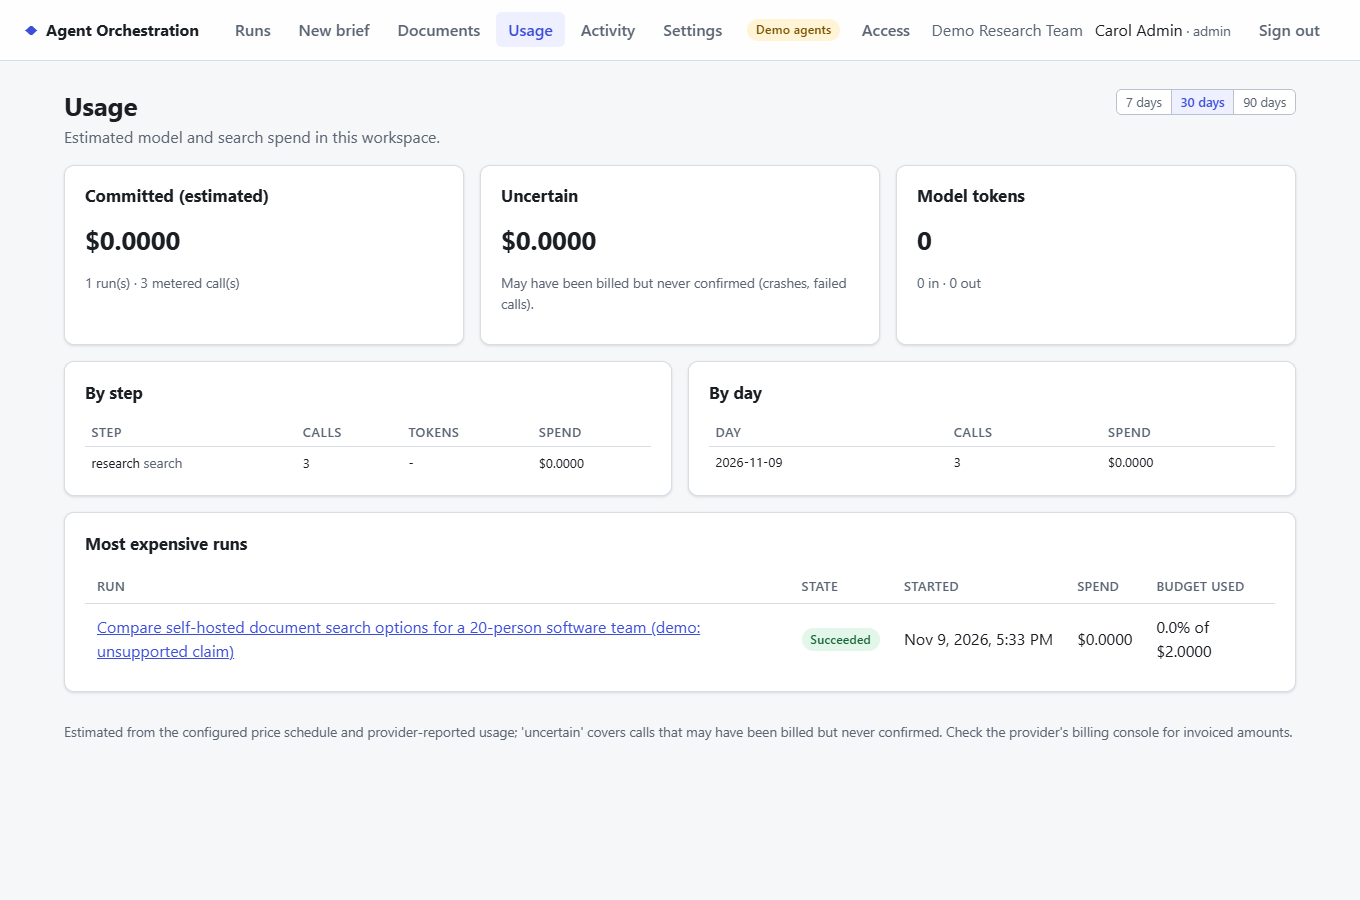
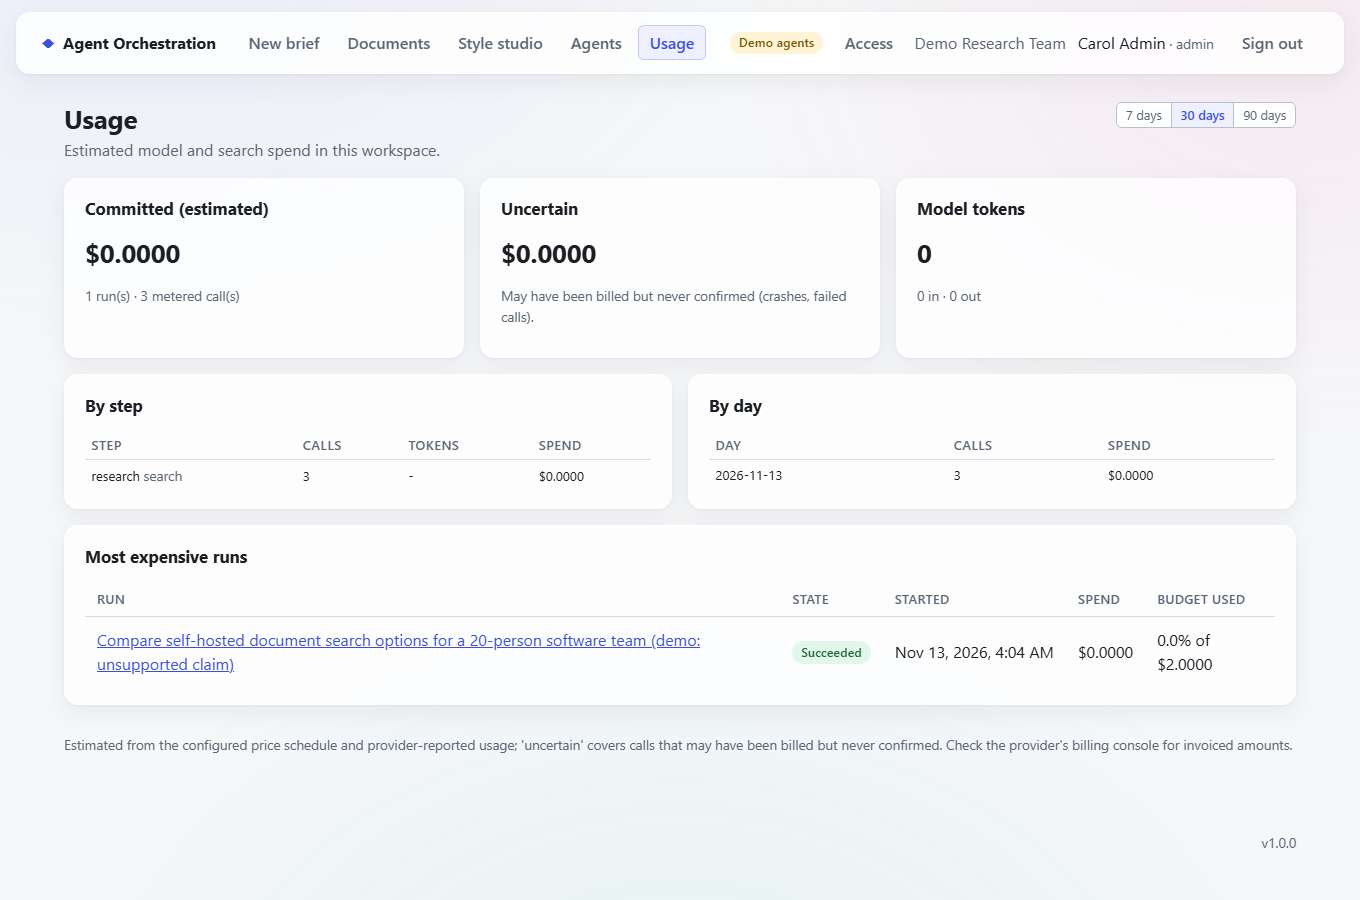
ui: glass theme with measured contrast; docs: live model on Render via environment
Translucent cards and a floating top bar over a faint aurora, gradient primary button. Aurora strength (light 0.07, dark 0.12) and glass opacity (78%, top bar 85%) are capped so muted and coloured text keep 4.5:1 where blobs overlap; opaque fallbacks without backdrop-filter, with reduced transparency and in forced colours. Screenshots regenerated. Deployment guide section 6: live model keys in Render's environment; the blueprint pins AOS_AGENT_MODE, so switch it in the file.

Tests: Vitest 88 passed; Playwright 13 passed (axe light/dark, 360 px, keyboard).

diff --git a/frontend/src/styles.css b/frontend/src/styles.css
@@ -370,3 +370,86 @@ details.role-help ul { margin: 0.5rem 0 0; padding-left: 1.25rem; }
   .table td, .table th { overflow-wrap: anywhere; }
   .table td, .table th, .table.compact td, .table.compact th { padding-left: 0.4rem; padding-right: 0.4rem; }
 }
+/* Glass theme. Cards, the top bar and toasts are translucent over a faint aurora; inputs stay
+   opaque. The aurora's strength is capped so muted and coloured text keep WCAG AA (4.5:1) even
+   where two blobs overlap (light 0.07, dark 0.12), and glass surfaces are at least 78% opaque
+   (85% for the top bar, which content scrolls under). Fallbacks: no backdrop-filter support,
+   prefers-reduced-transparency and forced colours all get the opaque theme. */
+:root {
+  --font: "Inter", "InterVariable", system-ui, -apple-system, "Segoe UI", Roboto, "Helvetica Neue", sans-serif;
+  --glass: rgb(255 255 255 / 78%);
+  --glass-strong: rgb(255 255 255 / 94%);
+  --glass-border: rgb(255 255 255 / 65%);
+  --glass-blur: blur(14px) saturate(1.5);
+  --topbar-bg: rgb(255 255 255 / 85%);
+  --aurora-1: rgb(99 102 241 / 7%);
+  --aurora-2: rgb(236 72 153 / 7%);
+  --aurora-3: rgb(20 184 166 / 7%);
+  --primary-end: #6b3fd4;
+  --primary-end-hover: #5631b0;
+  --shadow: 0 1px 2px rgb(16 24 40 / 5%), 0 8px 24px rgb(16 24 40 / 6%);
+  --radius: 14px;
+}
+@media (prefers-color-scheme: dark) {
+  :root {
+    --glass: rgb(22 27 34 / 78%);
+    --glass-strong: rgb(22 27 34 / 94%);
+    --glass-border: rgb(255 255 255 / 8%);
+    --topbar-bg: rgb(22 27 34 / 85%);
+    --aurora-1: rgb(99 102 241 / 12%);
+    --aurora-2: rgb(236 72 153 / 12%);
+    --aurora-3: rgb(20 184 166 / 12%);
+    --primary-end: #c4a6ff;
+    --primary-end-hover: #d4bdff;
+    --shadow: 0 1px 2px rgb(0 0 0 / 40%), 0 8px 24px rgb(0 0 0 / 35%);
+  }
+}
+body::before {
+  content: "";
+  position: fixed;
+  inset: 0;
+  z-index: -1;
+  pointer-events: none;
+  background:
+    radial-gradient(60rem 40rem at 10% -10%, var(--aurora-1), transparent 70%),
+    radial-gradient(50rem 36rem at 95% 5%, var(--aurora-2), transparent 70%),
+    radial-gradient(60rem 40rem at 50% 115%, var(--aurora-3), transparent 70%);
+}
+.card, .stepper, .signin-card {
+  background: var(--glass);
+  border-color: var(--glass-border);
+  -webkit-backdrop-filter: var(--glass-blur);
+  backdrop-filter: var(--glass-blur);
+}
+.toast { background: var(--glass-strong); -webkit-backdrop-filter: var(--glass-blur); backdrop-filter: var(--glass-blur); }
+.topbar {
+  background: var(--topbar-bg);
+  border-bottom-color: var(--glass-border);
+  -webkit-backdrop-filter: var(--glass-blur);
+  backdrop-filter: var(--glass-blur);
+}
+.btn-primary { background: linear-gradient(135deg, var(--primary), var(--primary-end)); }
+.btn-primary:hover:not(:disabled) { background: linear-gradient(135deg, var(--primary-hover), var(--primary-end-hover)); }
+.topnav a.active { box-shadow: inset 0 0 0 1px color-mix(in srgb, var(--primary) 25%, transparent); }
+/* A floating top bar on wide screens only; narrow layouts keep the full-width bar. */
+@media (min-width: 961px) {
+  .topbar { margin: 0.75rem 1rem 0; top: 0.75rem; border: 1px solid var(--glass-border); border-radius: var(--radius); box-shadow: var(--shadow); }
+  html { scroll-padding-top: 6rem; }
+  .timeline-card, .evidence-panel, .side { top: 5.5rem; }
+  .timeline-card { max-height: calc(100vh - 7rem); }
+}
+@media (prefers-reduced-motion: no-preference) {
+  .card { transition: box-shadow 160ms ease, border-color 160ms ease; }
+  .btn { transition: background-color 120ms ease, box-shadow 120ms ease, filter 120ms ease; }
+  .btn-primary:hover:not(:disabled) { box-shadow: 0 4px 14px color-mix(in srgb, var(--primary) 35%, transparent); }
+}
+@supports not ((backdrop-filter: blur(1px)) or (-webkit-backdrop-filter: blur(1px))) {
+  :root { --glass: var(--surface); --glass-strong: var(--surface); --topbar-bg: var(--surface); }
+}
+@media (prefers-reduced-transparency: reduce) {
+  :root { --glass: var(--surface); --glass-strong: var(--surface); --topbar-bg: var(--surface); }
+  body::before { display: none; }
+}
+@media (forced-colors: active) {
+  body::before { display: none; }
+}

diff --git a/docs/operations/deploy-render.md b/docs/operations/deploy-render.md
@@ -230,6 +230,46 @@ Merge the release with a merge commit (not a squash), so the 0009 commit exists 
 5. Record each step with time, commit, `/version` output and smoke result in
    [rehearsals.md](rehearsals.md).
 
+## 6. Optional: switch the hosted app to a live model
+
+The blueprints run the deterministic demo agents. A live model costs money per call, so first
+agree a budget within the project ceiling (USD 10, [ADR 0005](../decisions/0005-spending-ceiling.md)).
+With a USD 0 budget, use only a provider's free tier.
+
+Keys belong in Render's environment, never in the repository and never in the app's settings
+page: Render stores them encrypted, and the app reads them at start-up. Any OpenAI-compatible
+endpoint works:
+
+| Provider | `AOS_LLM_BASE_URL` | `AOS_LLM_MODEL` (example; check the provider's list) |
+| --- | --- | --- |
+| OpenAI | *(leave unset)* | `gpt-4o-mini` |
+| Groq | `https://api.groq.com/openai/v1` | a current Groq model name |
+| Google Gemini | `https://generativelanguage.googleapis.com/v1beta/openai/` | a current Gemini model name |
+
+1. **Try it locally first.** Put the same `AOS_AGENT_MODE=llm` and `AOS_LLM_*` values in
+   `backend/.env` and run the live smoke test (one small planner call):
+   `$env:AOS_LIVE_TESTS="1"; .\.venv\Scripts\python.exe -m pytest -m live -s tests/live`.
+   If the provider rejects JSON mode, add `AOS_LLM_RESPONSE_FORMAT=none`.
+2. **Add the secrets on Render.** Open **aos-web** → **Environment**, then add
+   `AOS_LLM_API_KEY` (the key itself, not the masked `****` preview), `AOS_LLM_MODEL` and, if
+   needed, `AOS_LLM_BASE_URL`. For web search, also add `AOS_SEARCH_PROVIDER=tavily` and
+   `AOS_TAVILY_API_KEY`. Without search, briefs that allow only *Uploaded documents* still
+   use real sources. Set the price estimates (`AOS_PRICE_LLM_INPUT_PER_MILLION`,
+   `AOS_PRICE_LLM_OUTPUT_PER_MILLION`) to the provider's listed prices, so the budget ledger
+   stops runs before the ceiling.
+3. **Change the mode in the blueprint, not only in the Dashboard.** The blueprint sets
+   `AOS_AGENT_MODE` and `AOS_SEARCH_PROVIDER`, and a Blueprint sync re-applies values from
+   the file. Change them in `render.free.yaml` (or the blueprint you use), commit, push, then
+   **Blueprint → Manual sync** and **Manual Deploy**.
+4. **Check it.** The "Demo agents" badge disappears from the top bar. Run one small brief and
+   check the run's cost card against the provider's usage page.
+
+Production refuses `AOS_SIGNUP_MODE=open` with model agents. The free blueprint uses
+`request`, so only people you approve can spend the budget.
+
+To return to demo agents, set `AOS_AGENT_MODE=fake` (and `AOS_SEARCH_PROVIDER=fake`) in the
+blueprint again, then sync and deploy.
+
 ## Known limitations of this deployment
 
 - `render.yaml` needs paid instance types for the worker and the pre-deploy command;
@@ -240,8 +280,9 @@ Merge the release with a merge commit (not a squash), so the 0009 commit exists 
   per service, and nothing reads a copy back. Uploads live on as extracted text in Postgres,
   and exports are rendered from Postgres on every download, so a redeploy loses nothing.
   Serving original files back would need an S3-compatible store first.
-- `AOS_AGENT_MODE=fake`: deterministic demo agents, not a real model. To use a model, set
-  `AOS_AGENT_MODE=llm` and the `AOS_LLM_*` variables on **both** services, within an approved
-  budget (ADR 0005). Production refuses `AOS_SIGNUP_MODE=open` with model agents.
+- `AOS_AGENT_MODE=fake`: deterministic demo agents, not a real model. To use a model, follow
+  [section 6](#6-optional-switch-the-hosted-app-to-a-live-model) on **every** service that runs
+  agents, within an approved budget (ADR 0005). Production refuses `AOS_SIGNUP_MODE=open` with
+  model agents.
 - A single web instance is assumed. Rate-limit and SSE state live in Postgres, so scaling out
   works, but it has not been load-tested on Render.

diff --git a/CHANGELOG.md b/CHANGELOG.md
@@ -59,6 +59,12 @@ been deployed yet; the hosted steps are prepared and listed under *Not done*.
     (`AOS_RATE_STYLE_PER_USER_HOUR`, default 120). Nothing is stored. No detector-evasion
     claims.
 - **Agents page:** what each agent does, its inputs and outputs, and its guards.
+- **Glass theme:** translucent cards and a floating top bar (wide screens) over a faint aurora,
+  and a gradient primary button. Aurora strength and glass opacity are capped so text keeps
+  WCAG AA contrast in light and dark mode. Opaque fallbacks apply without `backdrop-filter`,
+  with reduced transparency and in forced colours. Screenshots regenerated.
+- Deployment guide §6: switching the hosted app to a live model with Render environment
+  variables (keys never in the repository or the settings page).
 - `GET /network-check?address=`: reports where a given address appears in `X-Forwarded-For`
   (positions and counts only), used to measure `AOS_TRUSTED_PROXY_HOPS=3` on Render
   ([ADR 0025](docs/decisions/0025-client-address-behind-proxy.md)).

diff --git a/README.md b/README.md
@@ -356,6 +356,9 @@ AOS_TAVILY_API_KEY=<key>
 
 Opt-in live smoke test (one small planner call): `$env:AOS_LIVE_TESTS="1"; .\.venv\Scripts\python.exe -m pytest -m live -s tests/live`.
 
+On Render, keys go in the service's environment, never in the repository; follow
+[deploy-render.md §6](docs/operations/deploy-render.md#6-optional-switch-the-hosted-app-to-a-live-model).
+
 ### Evaluation
 
 From `backend/`, with `AOS_EVAL_DATABASE_URL` set to an empty, dedicated database:
